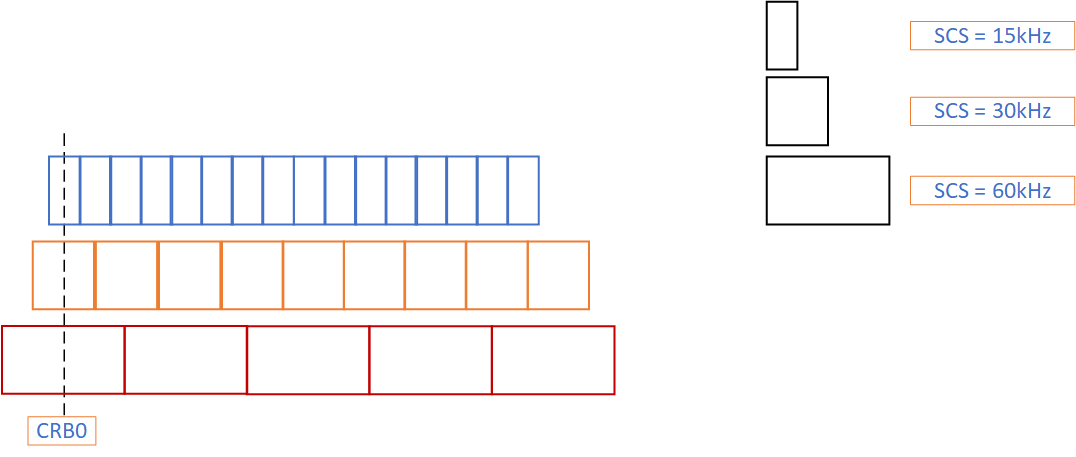
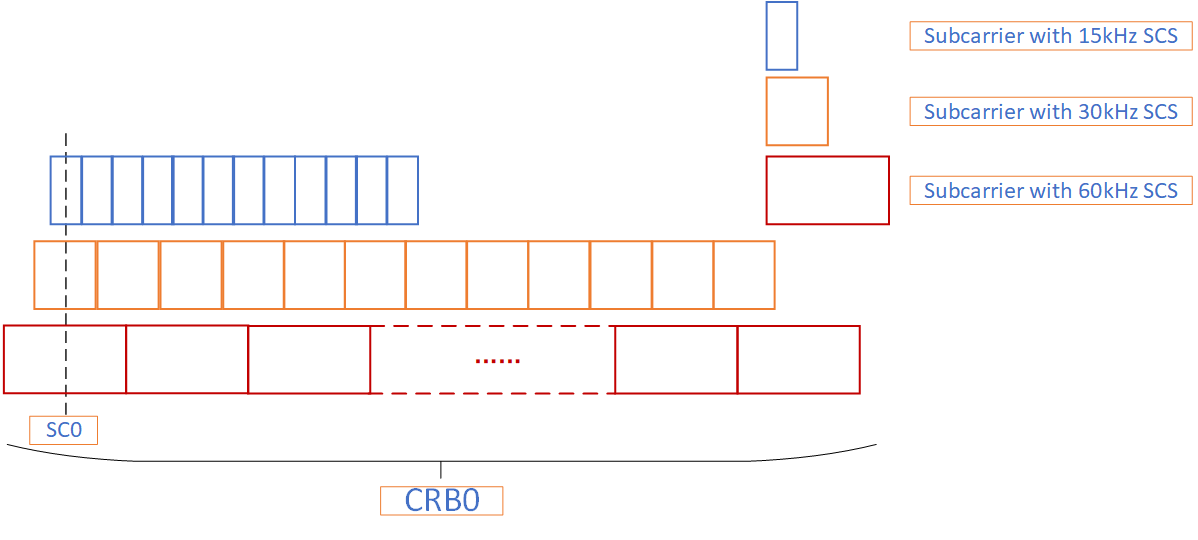
continue

diff --git a/_posts/2021-02-15-SSB.md b/_posts/2021-02-15-SSB.md
@@ -44,7 +44,7 @@ offsetToPointA 字段定义在 SIB1 消息中，用于描述 SS/PBCH-block 到 P
 
 ### *kssb*
 
-SS/PBCH-block 的位置是基于 Synchronization Raster 定义的，而 CRB 是基于 Channel Raster 定义的，这两者之间可能存在子载波偏移；此外，SS/PBCH-block 所使用的 SCS 通过 RRC 信令 *ssbSubcarrierSpacing* 字段或者通过盲检来确定 [15/30kHz（FR1）或 120/240kHz（FR2）]。而 CRB 的 SCS 则由字段 *subCarrierSpacingCommon* 给出，这两者 SCS 之间的多种组合造成了 SS/PBCH-block 与 CRB 之间的子载波偏移。
+SS/PBCH-block 的位置是基于 Synchronization Raster 定义的，而 CRB 是基于 Channel Raster 定义的，这两者之间可能存在子载波偏移；此外，SS/PBCH-block 所使用的 SCS 通过 RRC 信令 *ssbSubcarrierSpacing* 字段或者通过盲检来确定，即15/30kHz（FR1）或 120/240kHz（FR2）。而 CRB 的 SCS 则由字段 *subCarrierSpacingCommon* 给出，这两者 SCS 之间的多种组合造成了 SS/PBCH-block 与 CRB 之间的子载波偏移。
 
 为了描述子载波偏移，NR 在 MIB 消息中定义了 *ssb-SubcarrierOffset* 字段，即参数 kssb 来描述子载波偏移。在 FR1，kssb 的取值范围为 0-23，使用的 SCS 为 15kHz；在 FR2，kssb 的取值范围为 0-11，使用的 SCS 由字段 *subCarrierSpacingCommon* 确定。
 
